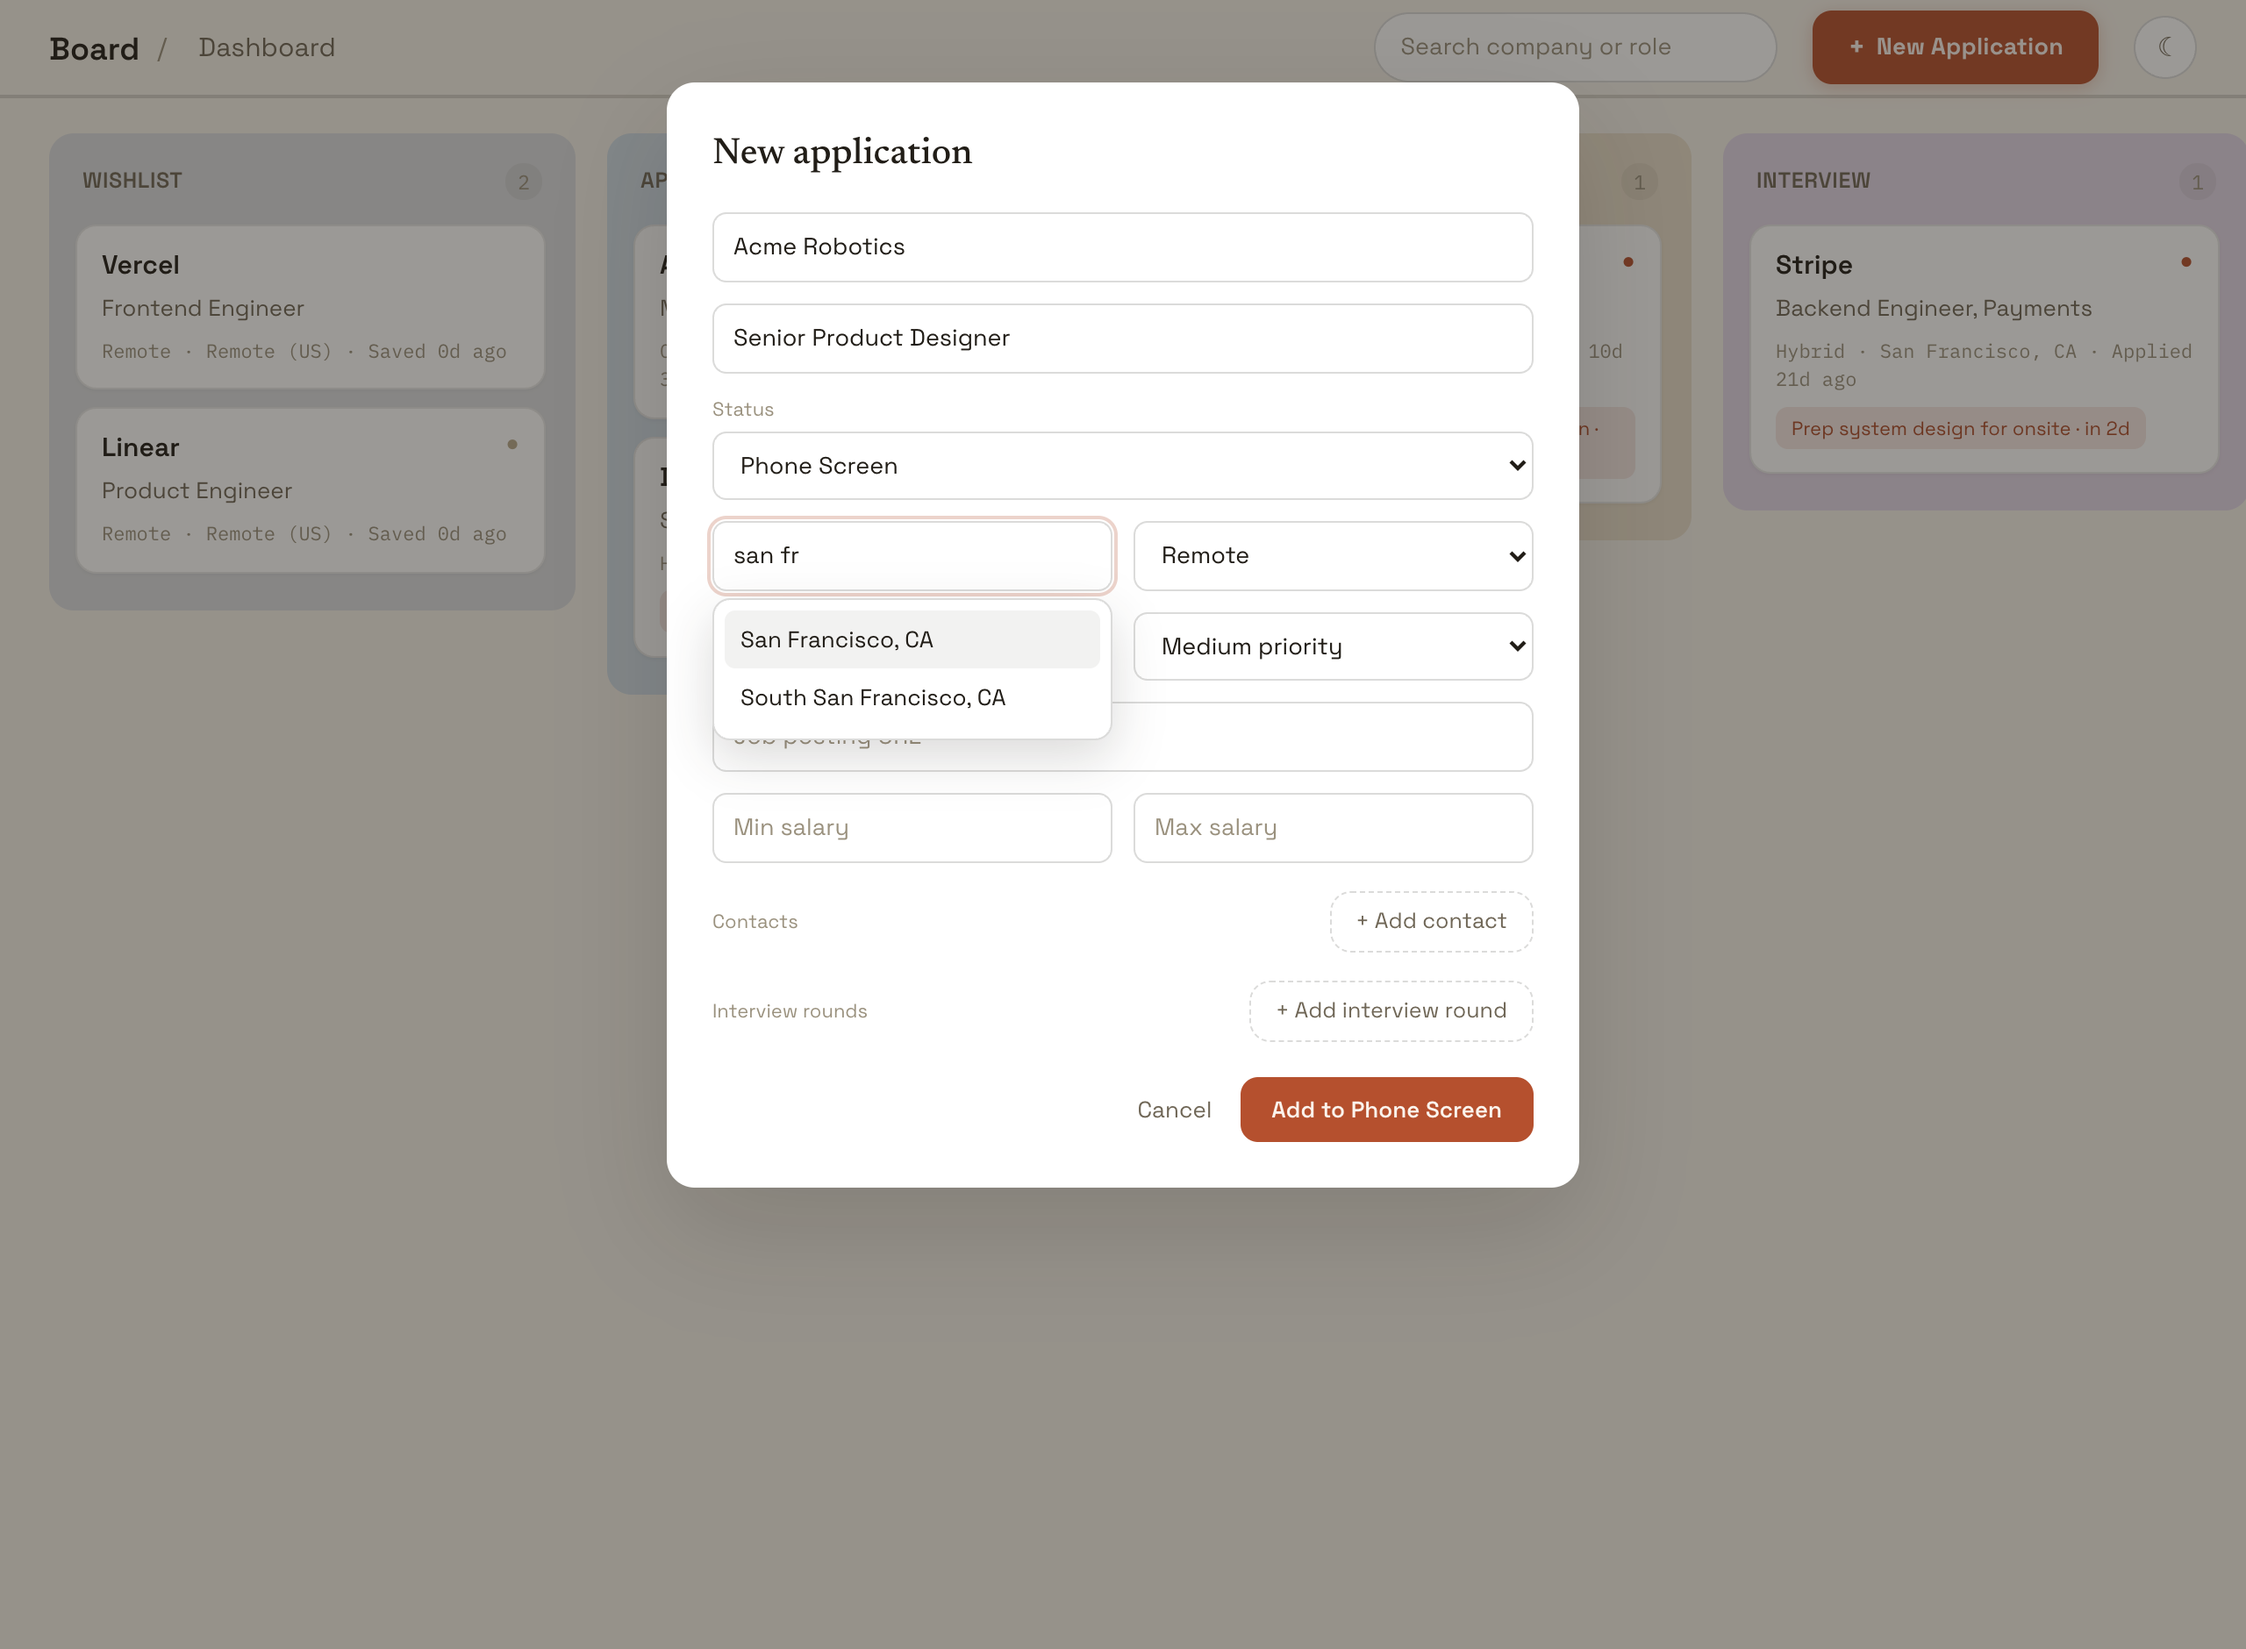
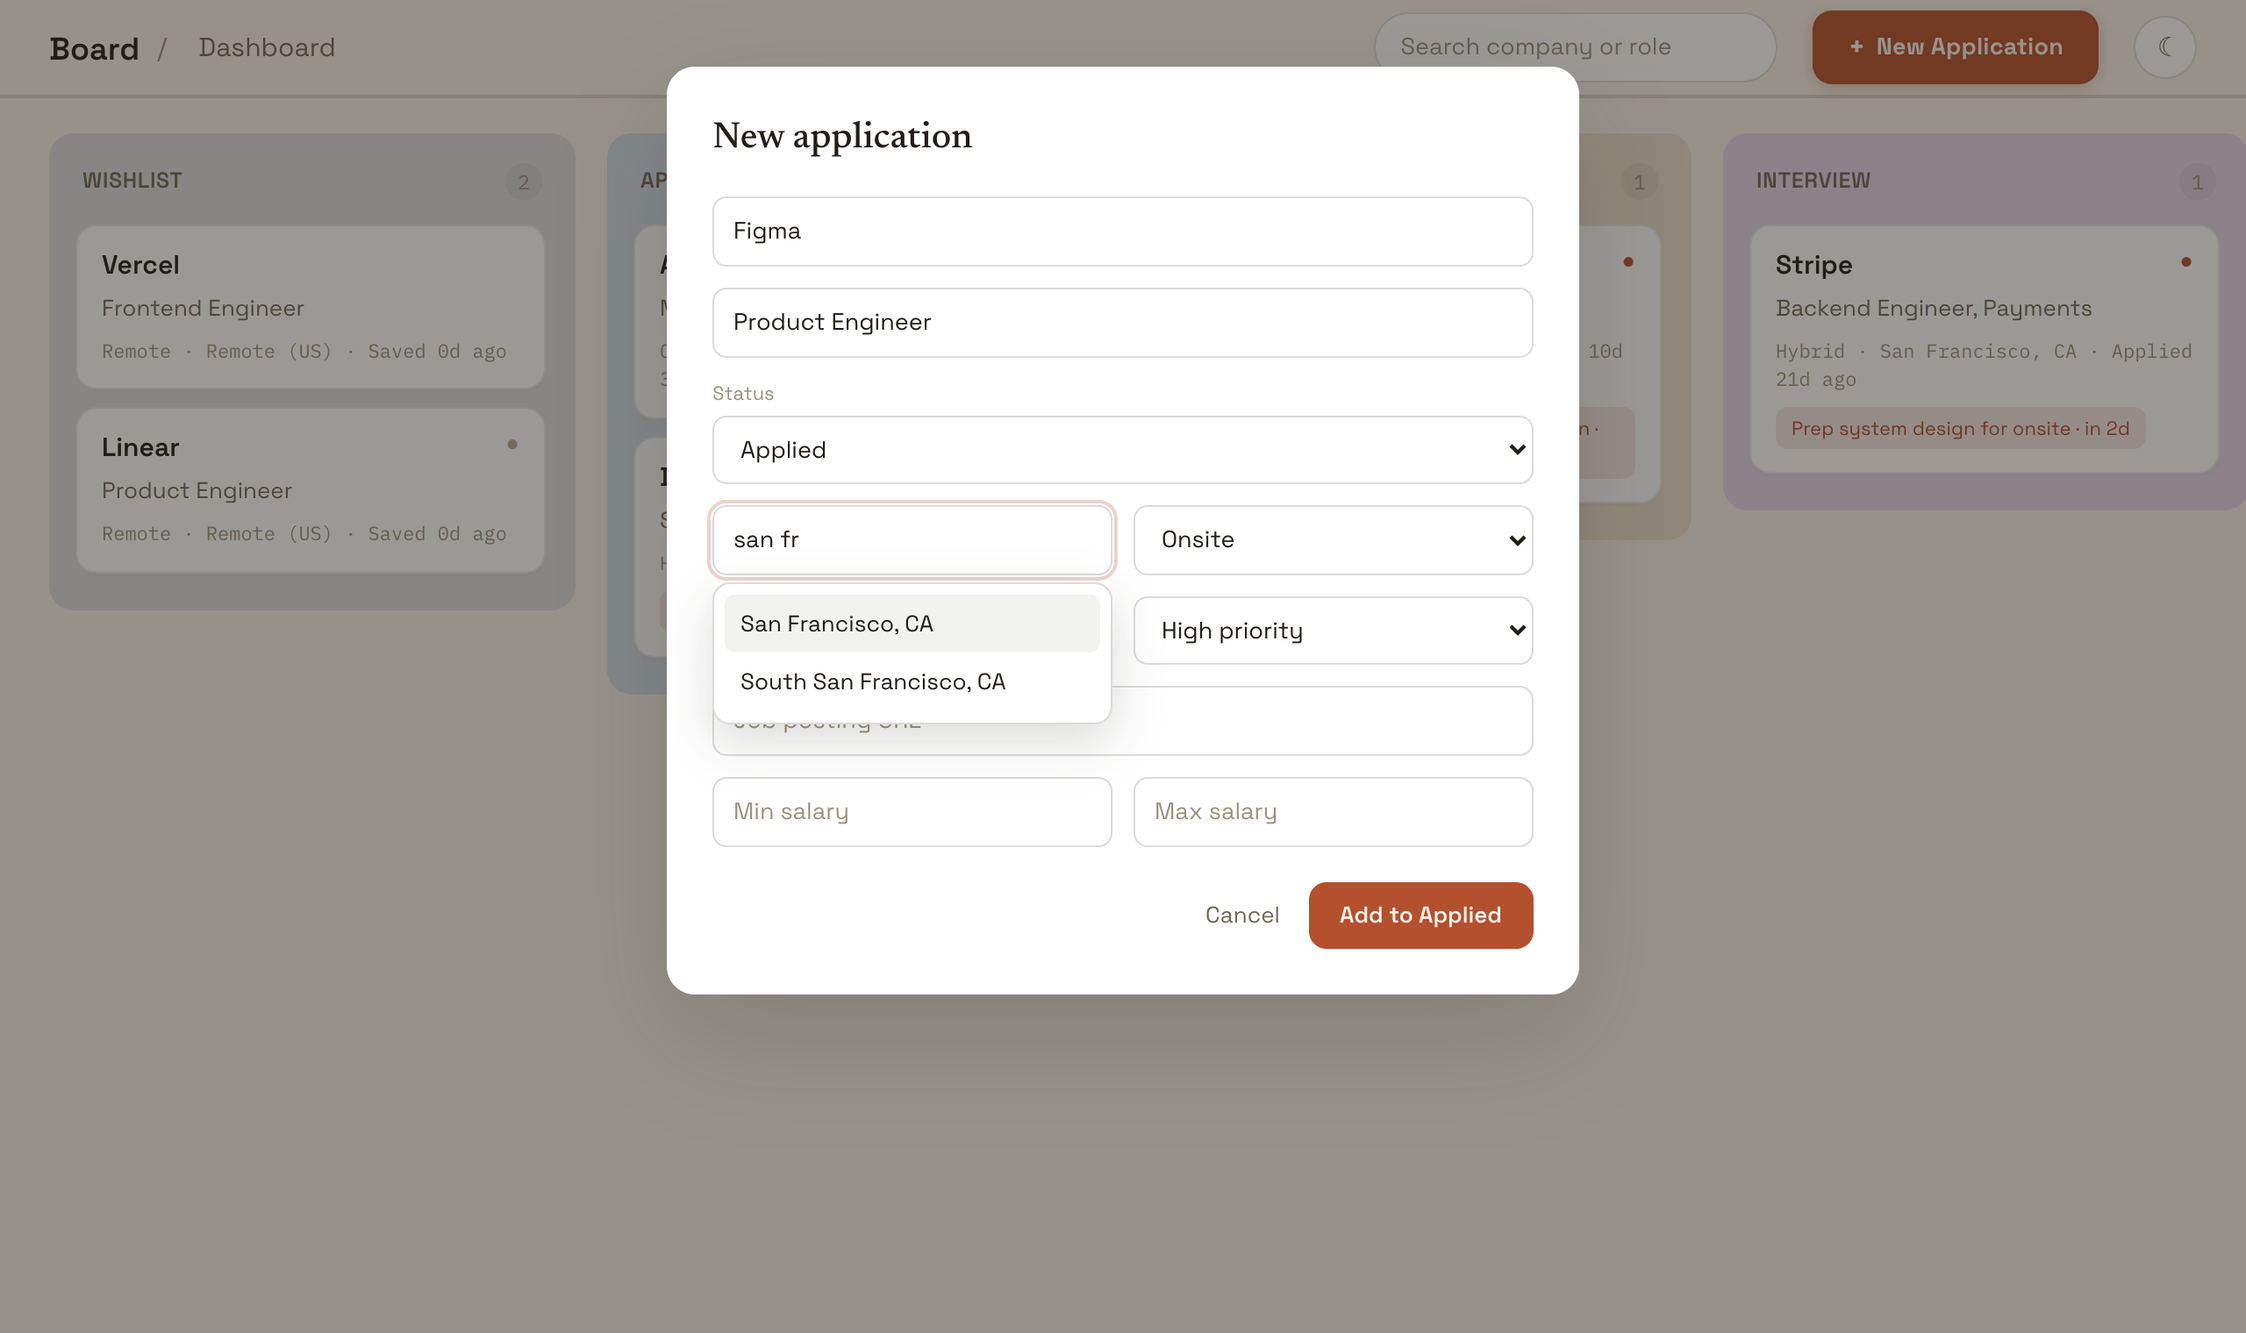
feat(frontend): default new applications to Onsite / High priority
Also comment out the contacts and interview-rounds sections in the
new-application modal (and their tests) — both are still available in
the application detail modal, and the commented blocks can be restored
as-is. Update the README copy and screenshot to match.

diff --git a/frontend/src/components/board/NewApplicationModal.tsx b/frontend/src/components/board/NewApplicationModal.tsx
@@ -1,11 +1,19 @@
 import { useState, type FormEvent } from 'react'
 import { api, errorMessage } from '../../api/client'
-import type { Application, Priority, RoundType, Status, WorkMode } from '../../api/types'
-import { ROUND_TYPE_LABELS, STATUS_LABELS } from '../../api/types'
+import type { Application, Priority, Status, WorkMode } from '../../api/types'
+import { STATUS_LABELS } from '../../api/types'
 import { ACTIVE_STATUSES, CLOSED_STATUSES, SOURCE_OPTIONS } from '../../lib/design'
-import { formatDateTime, todayISO } from '../../lib/dates'
+import { todayISO } from '../../lib/dates'
 import LocationInput from '../ui/LocationInput'
 import { useToast } from '../ui/Toast'
+
+/* Contacts and interview rounds are disabled in this modal for now.
+   Uncomment the blocks marked "contacts & rounds" (plus these imports)
+   to restore them; both can still be managed from the detail modal.
+
+import type { RoundType } from '../../api/types'
+import { ROUND_TYPE_LABELS } from '../../api/types'
+import { formatDateTime } from '../../lib/dates'
 
 interface ContactDraft {
   name: string
@@ -40,6 +48,7 @@ const blankRound: RoundDraft = {
 }
 
 const ROUND_TYPES: RoundType[] = ['phone_screen', 'technical', 'onsite', 'final', 'other']
+*/
 
 interface Props {
   onClose: () => void
@@ -51,24 +60,28 @@ export default function NewApplicationModal({ onClose, onCreated }: Props) {
   const [role, setRole] = useState('')
   const [status, setStatus] = useState<Status>('applied')
   const [location, setLocation] = useState('')
-  const [workMode, setWorkMode] = useState<WorkMode>('remote')
+  const [workMode, setWorkMode] = useState<WorkMode>('onsite')
   const [source, setSource] = useState('LinkedIn')
-  const [priority, setPriority] = useState<Priority>('medium')
+  const [priority, setPriority] = useState<Priority>('high')
   const [jobUrl, setJobUrl] = useState('')
   const [salaryMin, setSalaryMin] = useState('')
   const [salaryMax, setSalaryMax] = useState('')
+  /* contacts & rounds
   const [contacts, setContacts] = useState<ContactDraft[]>([])
   const [contactForm, setContactForm] = useState<ContactDraft | null>(null)
   const [rounds, setRounds] = useState<RoundDraft[]>([])
   const [roundForm, setRoundForm] = useState<RoundDraft | null>(null)
+  */
   const [saving, setSaving] = useState(false)
   const toast = useToast()
 
   const invalid = !company.trim() || !role.trim()
+  /* contacts & rounds
   // Rounds only make sense once the process has started; drafts are kept in
   // state (and restored) if the status flips back, but never submitted for
   // other statuses.
   const showRounds = status === 'phone_screen' || status === 'interview'
+  */
 
   const submit = async (e: FormEvent) => {
     e.preventDefault()
@@ -97,6 +110,7 @@ export default function NewApplicationModal({ onClose, onCreated }: Props) {
       return
     }
 
+    /* contacts & rounds
     try {
       for (const contact of contacts) {
         await api.post(`/api/applications/${created.id}/contacts`, {
@@ -123,6 +137,7 @@ export default function NewApplicationModal({ onClose, onCreated }: Props) {
       // and continue into the detail modal where it can be retried.
       toast(errorMessage(err))
     }
+    */
     onCreated(created)
   }
 
@@ -216,6 +231,7 @@ export default function NewApplicationModal({ onClose, onCreated }: Props) {
           />
         </div>
 
+        {/* contacts & rounds
         <div className="modal-section">
           <div className="modal-section-head">
             <span className="field-label">Contacts</span>
@@ -379,6 +395,7 @@ export default function NewApplicationModal({ onClose, onCreated }: Props) {
             )}
           </div>
         )}
+        */}
 
         <div className="modal-actions">
           <button

diff --git a/frontend/src/__tests__/newapp.test.tsx b/frontend/src/__tests__/newapp.test.tsx
@@ -1,4 +1,5 @@
-import { render, screen, waitFor } from '@testing-library/react'
+import { render, screen } from '@testing-library/react'
+// import { waitFor } from '@testing-library/react' // (contacts & rounds tests)
 import userEvent from '@testing-library/user-event'
 import { describe, expect, it, vi, beforeEach } from 'vitest'
 import NewApplicationModal from '../components/board/NewApplicationModal'
@@ -25,7 +26,7 @@ describe('NewApplicationModal', () => {
     )
   })
 
-  it('defaults the status to Applied and stamps today as the applied date', async () => {
+  it('defaults to Applied / Onsite / High priority and stamps today as the applied date', async () => {
     const onCreated = vi.fn()
     render(<NewApplicationModal onClose={vi.fn()} onCreated={onCreated} />)
 
@@ -39,7 +40,12 @@ describe('NewApplicationModal', () => {
 
     expect(api.post).toHaveBeenCalledWith(
       '/api/applications',
-      expect.objectContaining({ status: 'applied', applied_date: todayISO() }),
+      expect.objectContaining({
+        status: 'applied',
+        applied_date: todayISO(),
+        work_mode: 'onsite',
+        priority: 'high',
+      }),
     )
     expect(onCreated).toHaveBeenCalledWith({ id: 9 })
   })
@@ -57,6 +63,9 @@ describe('NewApplicationModal', () => {
       expect.objectContaining({ status: 'wishlist', applied_date: null }),
     )
   })
+
+  /* Contacts & interview rounds are commented out in the modal for now;
+     restore these tests alongside them.
 
   it('creates added contacts after the application', async () => {
     const onCreated = vi.fn()
@@ -141,4 +150,5 @@ describe('NewApplicationModal', () => {
       .mock.calls.filter(([path]) => String(path).includes('/interviews'))
     expect(interviewCalls).toHaveLength(0)
   })
+  */
 })

diff --git a/README.md b/README.md
@@ -126,12 +126,11 @@ refresh) and the application opens as a modal over the board. Esc, the
 
 **+ New Application** opens the quick-add form. Company and role are
 required; status defaults to **Applied** (stamping today as the applied
-date — pick Wishlist to save without one). The location field suggests
-every US city in `City, ST` form, filtering by city or state as you
-type — free text still works for anything else. You can attach **contacts**
-right away, and choosing *Phone Screen* or *Interview* status unlocks
-adding **interview rounds** before the application even exists. Creating
-drops you straight into the application modal.
+date — pick Wishlist to save without one), work mode to **Onsite**, and
+priority to **High**. The location field suggests every US city in
+`City, ST` form, filtering by city or state as you type — free text
+still works for anything else. Creating drops you straight into the
+application modal — add contacts and interview rounds from there.
 
 ### The dashboard
 
